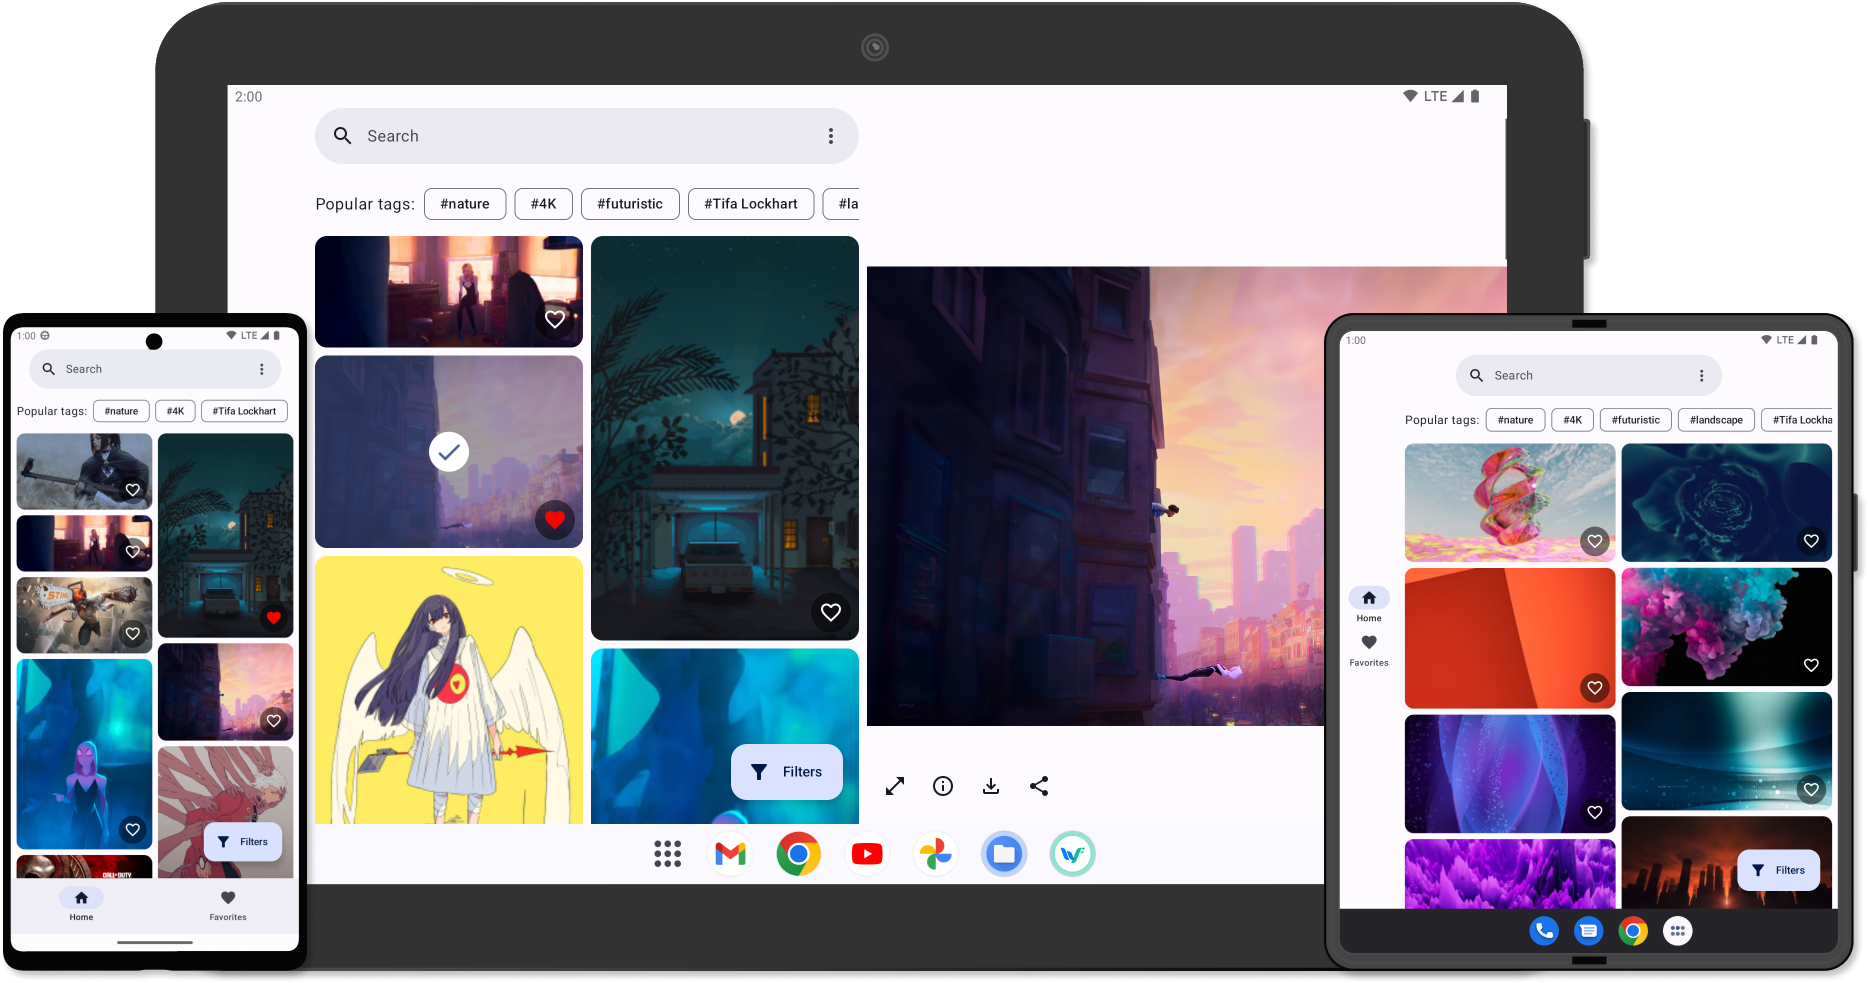
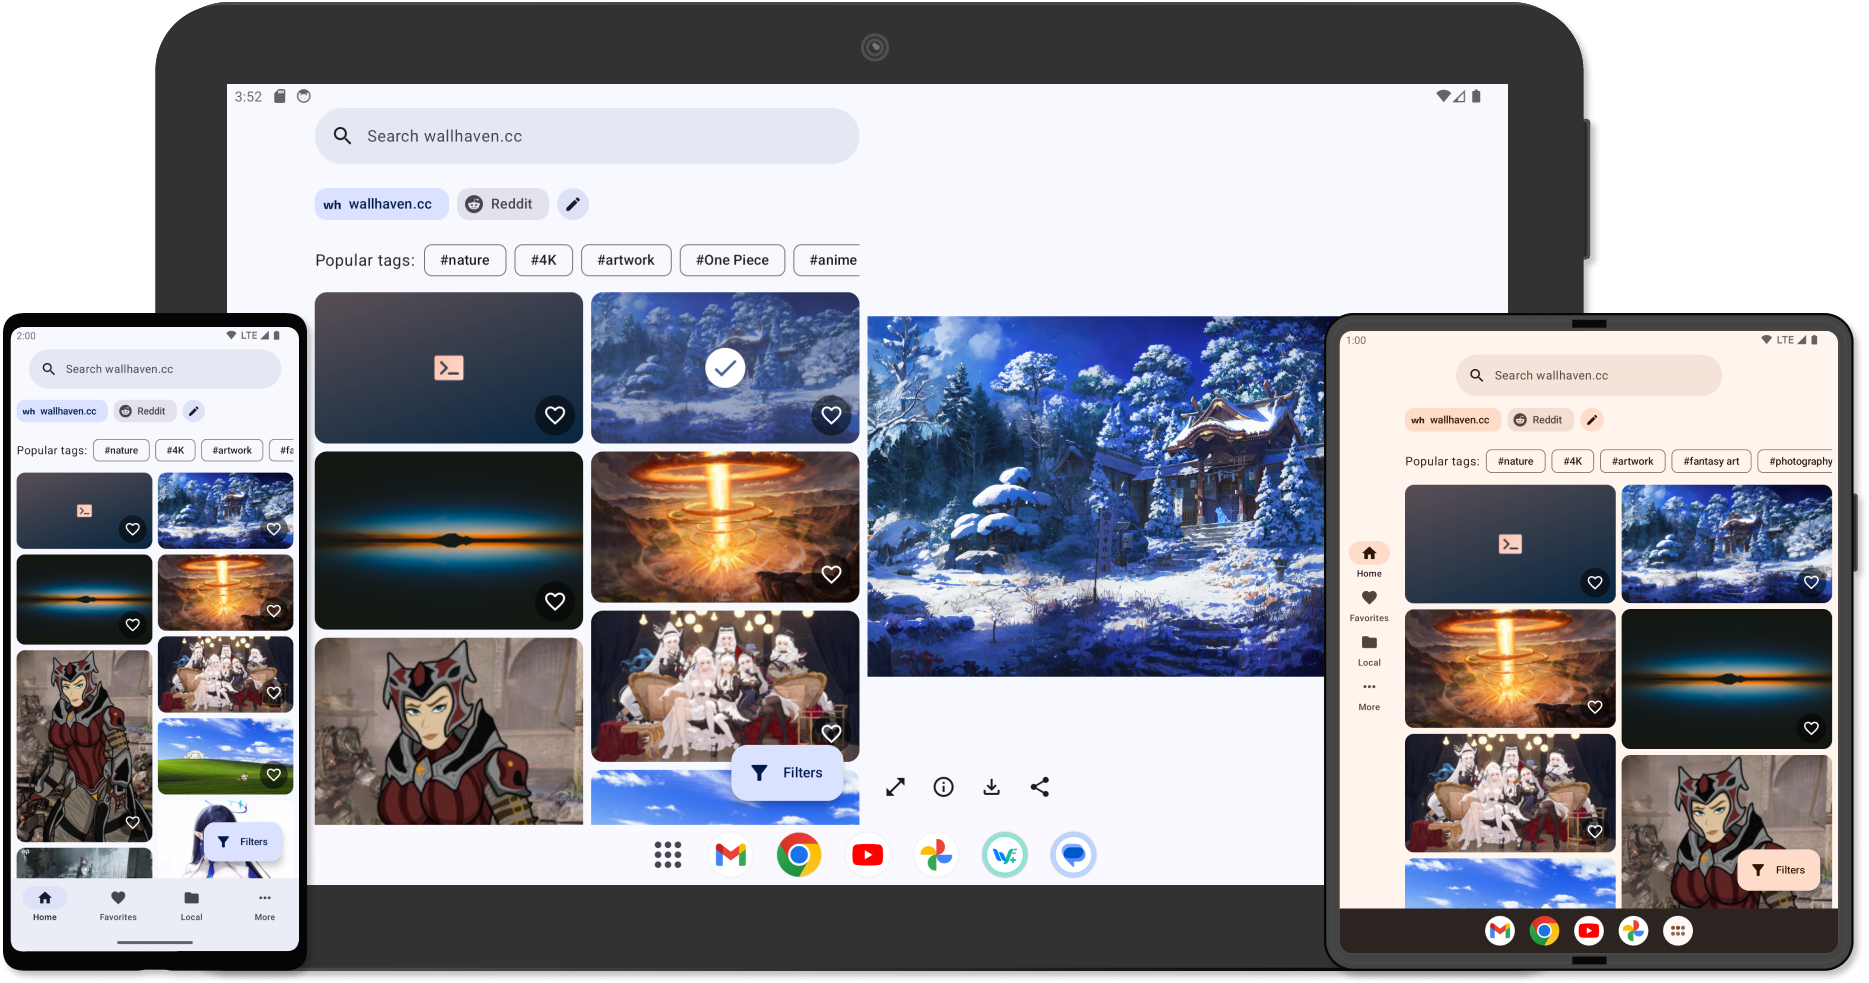
Release v2.0.0

diff --git a/README.md b/README.md
@@ -21,7 +21,7 @@
   </div>
   <br/>
   <p>
-  A wallpaper app for Android with beautiful wallpapers from <a href="https://wallhaven.cc/">wallhaven.cc</a> (more sources to be added in the future). Designed with <a href="https://m3.material.io/">Material Design 3</a> and supports wide screen devices like tablets.
+  A wallpaper app for Android with beautiful wallpapers from <a href="https://wallhaven.cc/">wallhaven.cc</a>, <a href="https://reddit.com/">Reddit</a>. Designed with <a href="https://m3.material.io/">Material Design 3</a> and supports wide screen devices like tablets.
   </p>
 </div>
 <br/>
@@ -44,18 +44,19 @@
 
 <div align="center">
 
-| <img src="./src/base/fastlane/metadata/android/en-US/images/phoneScreenshots/1.png" alt="Home" width="150"> | <img src="./src/base/fastlane/metadata/android/en-US/images/phoneScreenshots/2_dark.png" alt="Filters" width="150"> | <img src="./src/base/fastlane/metadata/android/en-US/images/phoneScreenshots/3.png" alt="Wallpaper Info" width="150"> | <img src="./src/base/fastlane/metadata/android/en-US/images/phoneScreenshots/4.png" alt="Search History" width="150"> |
-|:-----------------------------------------------------------------------------------------------------------:|:-------------------------------------------------------------------------------------------------------------------:|:---------------------------------------------------------------------------------------------------------------------:|:---------------------------------------------------------------------------------------------------------------------:|
-|                                                 <b>Home</b>                                                 |                                                   <b>Filters</b>                                                    |                                                 <b>Wallpaper Info</b>                                                 |                                                 <b>Search History</b>                                                 |
+| <img src="./src/base/fastlane/metadata/android/en-US/images/phoneScreenshots/1.png" alt="Home" width="150"> | <img src="./src/base/fastlane/metadata/android/en-US/images/phoneScreenshots/2.png" alt="Filters" width="150"> | <img src="./src/base/fastlane/metadata/android/en-US/images/phoneScreenshots/2_reddit.png" alt="Filters" width="150"> | <img src="./src/base/fastlane/metadata/android/en-US/images/phoneScreenshots/3.png" alt="Wallpaper Info" width="150"> |
+|:-----------------------------------------------------------------------------------------------------------:|:--------------------------------------------------------------------------------------------------------------:|:---------------------------------------------------------------------------------------------------------------------:|:---------------------------------------------------------------------------------------------------------------------:|
+|                                                 <b>Home</b>                                                 |                                            <b>Wallhaven Filters</b>                                            |                                                 <b>Reddit Filters</b>                                                 |                                                 <b>Wallpaper Info</b>                                                 |
 
-| <img src="./src/base/fastlane/metadata/android/en-US/images/phoneScreenshots/5.png" alt="Crop and Set Wallpaper" width="150"> | <img src="./src/base/fastlane/metadata/android/en-US/images/phoneScreenshots/6.png" alt="Settings 1" width="150"> |
-|:-----------------------------------------------------------------------------------------------------------------------------:|:-----------------------------------------------------------------------------------------------------------------:|
-|                                                 <b>Crop and Set Wallpaper</b>                                                 |                                                  <b>Settings</b>                                                  |
+| <img src="./src/base/fastlane/metadata/android/en-US/images/phoneScreenshots/4.png" alt="Search History" width="150"> | <img src="./src/base/fastlane/metadata/android/en-US/images/phoneScreenshots/5.png" alt="Crop and Set Wallpaper" width="150"> | <img src="./src/base/fastlane/metadata/android/en-US/images/phoneScreenshots/6.png" alt="Settings 1" width="150"> |
+|:---------------------------------------------------------------------------------------------------------------------:|:-----------------------------------------------------------------------------------------------------------------------------:|:-----------------------------------------------------------------------------------------------------------------:|
+|                                                 <b>Search History</b>                                                 |                                                 <b>Crop and Set Wallpaper</b>                                                 |                                                  <b>Settings</b>                                                  |
 
 </div>
 
 ## Features
 
+- Supports wallhaven.cc and Reddit
 - Multi-pane layout for tablets and other wide screen devices
 - Auto wallpaper changer
 - Save searches
@@ -63,7 +64,6 @@
 - Local Wallpapers
 - Use saved searches, favorites, and local wallpapers for auto wallpaper changer
 - Search history
-- Supports all filters provided by wallhaven.cc
 - [Plus] Smart wallpaper cropping using on-device object detection powered by [Tensorflow Lite](https://www.tensorflow.org/lite/).
   - Supports adding your own TFLite models. You can find more models [here](https://tfhub.dev/s?deployment-format=lite&module-type=image-object-detection/).
 - Search results caching to reduce api calls
@@ -95,7 +95,6 @@ ADB command:
 
 ## Roadmap
 
-- [ ] Add more sources
 - [ ] Support foldables inner and outer screens together
 - [ ] More theme colors
 - [ ] Learn from favorites (on-device) and suggest wallpapers
